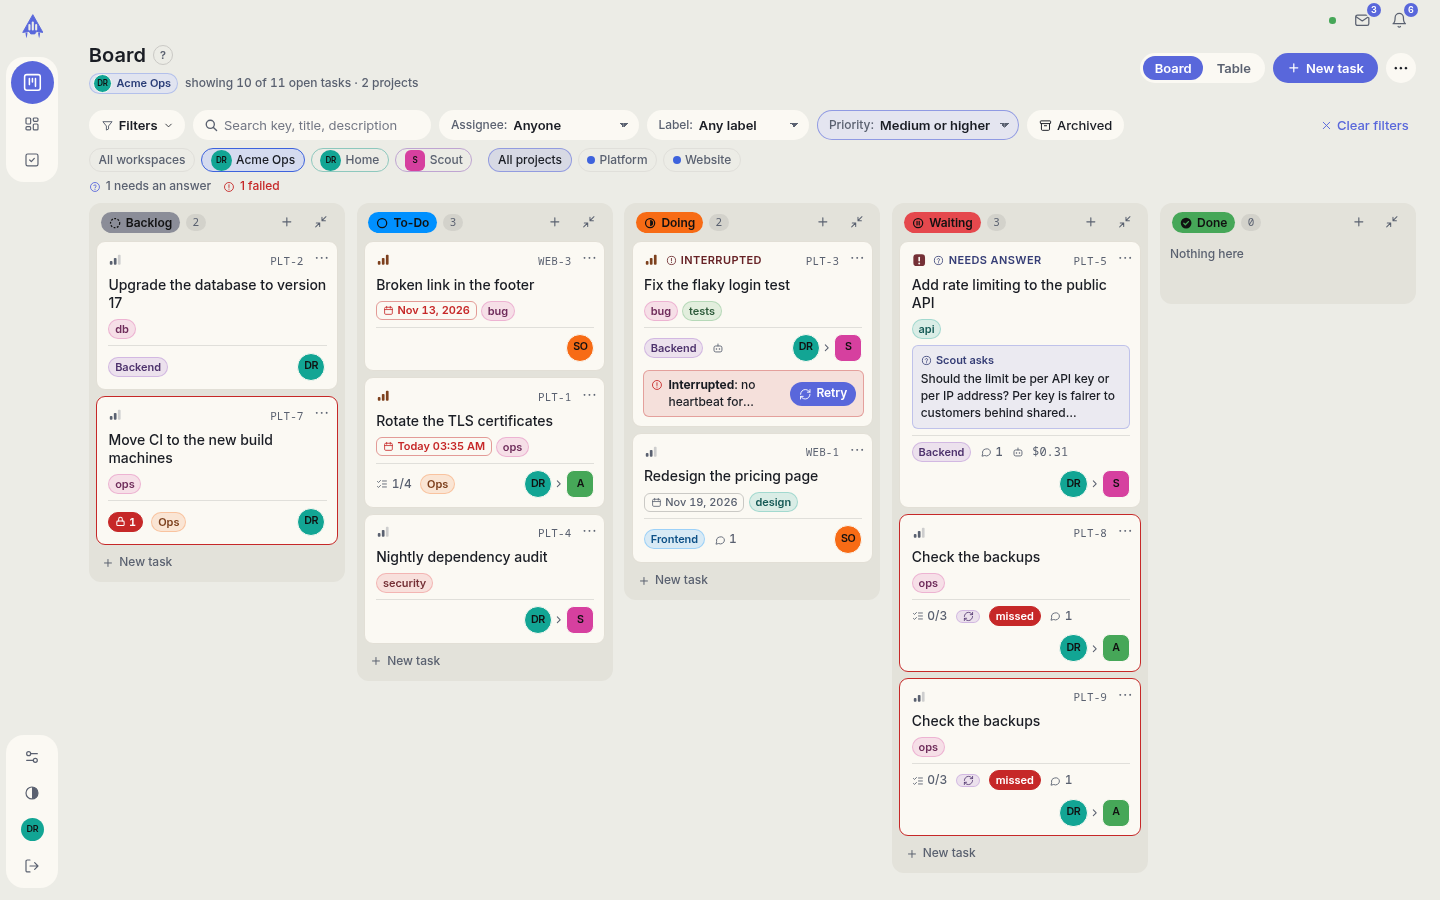
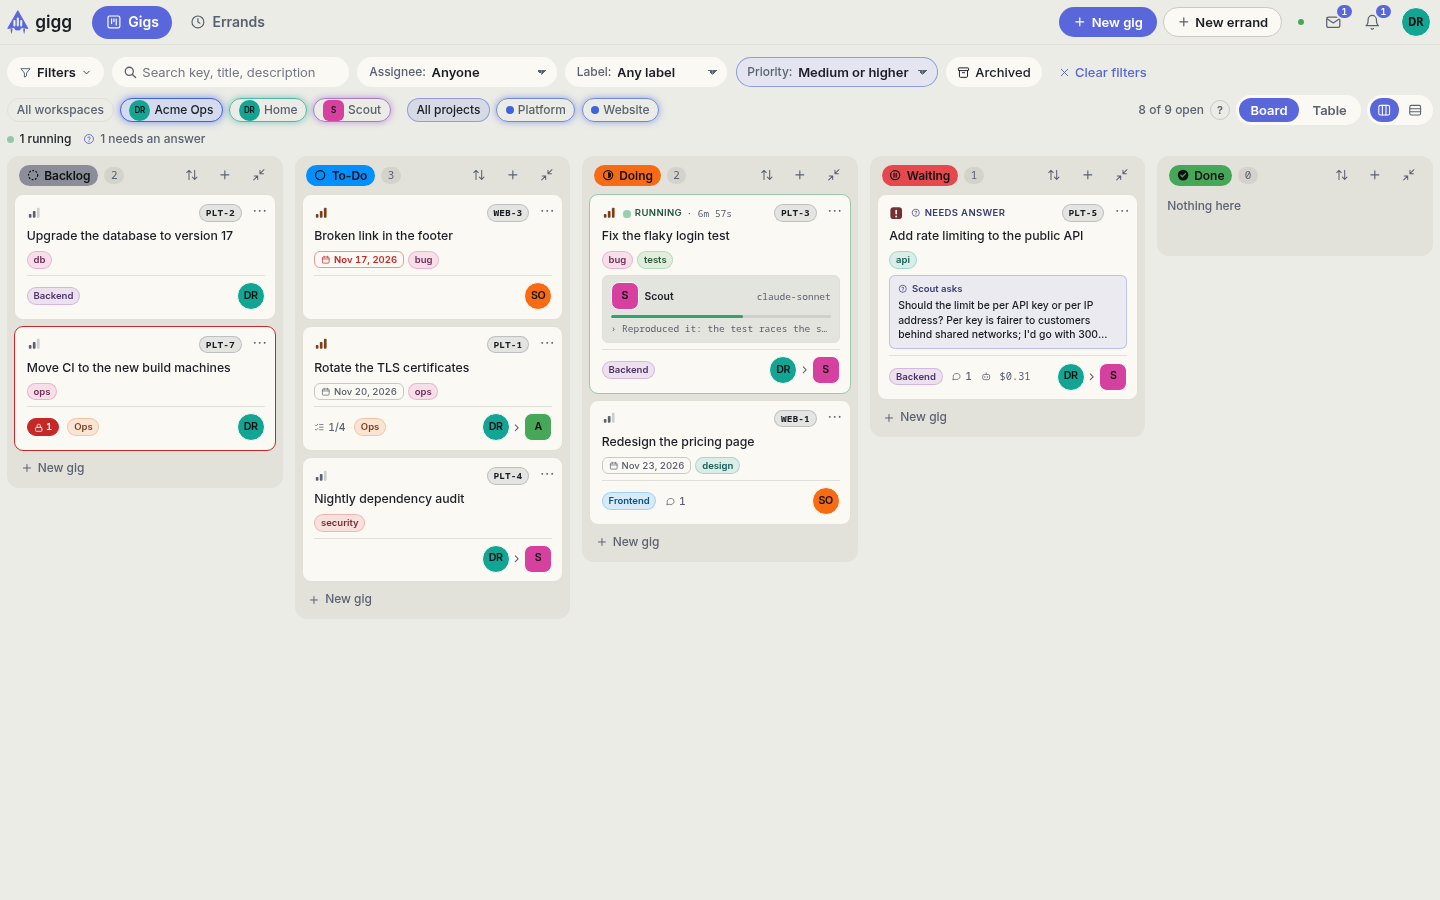
Docs: re-take every screenshot for the top bar
The guide's 19 images still showed the sidebar (and the My gigs page).
They are re-taken from a freshly seeded demo instance, half in
Nightwalker and half in Daywalker.

Scenario fixes on the way:
- New gig comes from the top bar; Recurring and Trash open with the
  board's ?tool= links (the old header menu is gone); help sits at the
  end of the filters row; gig links use /g/.
- The run first clears the board's remembered filter, so the
  all-gigs shot isn't filtered by an earlier run.
- agent-run-day shoots the Agent run section itself. The old shot never
  reached it. Element shots no longer capture beyond the viewport:
  that resized the page, and a scrolled panel jumped before the clip.
- The demo's seed keys get gigs:work, which ticking checklist items
  needs since the work/edit split.

Every image checked by eye; no metadata chunks in the PNGs.

diff --git a/dev/shot/run.js b/dev/shot/run.js
@@ -50,7 +50,9 @@ const puppeteer = require("puppeteer-core");
           // one element (with a margin), e.g. a dialog or a section
           const box = await (await page.waitForSelector(step.el, { timeout: 10000 })).boundingBox();
           const m = step.margin ?? 12;
-          await page.screenshot({ path: path.join(outDir, step.shot + ".png"), clip: { x: Math.max(0, box.x - m), y: Math.max(0, box.y - m), width: box.width + 2 * m, height: box.height + 2 * m } });
+          await page.screenshot({ path: path.join(outDir, step.shot + ".png"), clip: { x: Math.max(0, box.x - m), y: Math.max(0, box.y - m), width: box.width + 2 * m, height: box.height + 2 * m },
+            // as it is on screen: capturing beyond the viewport resizes the page, and a scrolled panel jumps
+            captureBeyondViewport: false });
         } else if (step.shot) await page.screenshot({ path: path.join(outDir, step.shot + ".png"), fullPage: step.full !== false });
         else if (step.dom) {
           fs.writeFileSync(path.join(outDir, step.dom + ".html"), await page.content());

diff --git a/dev/shot/docs-scenario.py b/dev/shot/docs-scenario.py
@@ -36,8 +36,8 @@ steps = [
     {"press": "Enter"},
     {"wait": ".board"},
     {"wait": 6000},  # the container's network settles once at the start (Chromium: ERR_NETWORK_CHANGED)
-    # a fresh account's look: the filter row folded (an earlier run left it open)
-    {"eval": "(() => { fetch('/api/v1/me', { method: 'PATCH', headers: { 'content-type': 'application/json' }, body: JSON.stringify({ preferences: { board_filters: null } }) }); return true; })()", "expect": True},
+    # a fresh account's look: the filter row folded and no remembered filter (an earlier run left both)
+    {"eval": "(() => { fetch('/api/v1/me', { method: 'PATCH', headers: { 'content-type': 'application/json' }, body: JSON.stringify({ preferences: { board_filters: null, board_filter: null } }) }); return true; })()", "expect": True},
     {"wait": 800},
     # ---- Nightwalker
     theme("nightwalker"),
@@ -47,16 +47,13 @@ steps = [
     {"shot": "tooltip-night", "full": False},
     {"goto": "/board?p=1"},
     {"wait": ".board .gig-card"},
-    click_text(".head-actions button", "New gig"),
+    click_text(".appbar a", "New gig"),
     {"wait": "[role=dialog] input"},
     {"type": ["[role=dialog] input", "Rotate the API signing keys"]},
     {"wait": 500},
     {"shot": "gig-new-night", "full": False},
-    {"goto": "/board?p=3"},
-    {"wait": ".board"},
-    click_text(".head-actions .head-more > button", "⋯"),
-    {"wait": 200},
-    click_text(".head-more .menu button", "Recurring"),
+    # the account menu's tools are links to the board with ?tool=
+    {"goto": "/board?p=3&tool=recurring"},
     {"wait": "[role=dialog] .rec-row, [role=dialog] li, [role=dialog] article"},
     {"wait": 700},
     {"shot": "recurring-night", "el": "[role=dialog]"},
@@ -72,7 +69,7 @@ steps = [
     *page("/admin/workspaces/1", "form[aria-label='Workspace settings']", "admin-workspace-night"),
     {"goto": "/board"},
     {"wait": ".board"},
-    {"click": "h1 .help-button"},
+    {"click": ".bf-end .help-button"},
     {"wait": ".help-body"},
     {"wait": 900},
     {"shot": "help-night", "full": False},
@@ -82,13 +79,15 @@ steps = [
     {"eval": "(() => { fetch('/api/v1/me', { method: 'PATCH', headers: { 'content-type': 'application/json' }, body: JSON.stringify({ preferences: { board_filters: 'open' } }) }); return true; })()", "expect": True},
     {"wait": 800},
     *page("/board?ws=acme&pr=2", ".board .gig-card", "board-filters-day"),
-    *page("/board/p/1/t/PLT-1", "aside.panel .tp-body", "gig-panel-day", settle=1200),
-    {"goto": "/board/p/1/t/PLT-4"},
+    *page("/board/p/1/g/PLT-1", "aside.panel .tp-body", "gig-panel-day", settle=1200),
+    {"goto": "/board/p/1/g/PLT-4"},
     {"wait": "section[aria-label='Agent run']"},
     {"wait": 1500},
-    {"eval": "(() => { document.querySelector(\"section[aria-label='Agent run']\").scrollIntoView({ block: 'start' }); return true; })()", "expect": True},
+    # the section itself (the panel can't scroll it to the top: it's near the end), scrolled at once
+    # (the panel scrolls smoothly, and the shot would catch it on the way)
+    {"eval": "(() => { document.querySelector(\"section[aria-label='Agent run']\").scrollIntoView({ block: 'center', behavior: 'instant' }); return true; })()", "expect": True},
     {"wait": 400},
-    {"shot": "agent-run-day", "el": "aside.panel", "margin": 0},
+    {"shot": "agent-run-day", "el": "section[aria-label='Agent run']", "margin": 8},
     *page("/inbox", ".inbox", "inbox-day"),
     *page("/table", "table", "table-day"),
     *page("/themes", "h1", "themes-day"),
@@ -106,11 +105,7 @@ steps = [
     {"wait": 1800},
     {"eval": "(() => { const w = document.createTreeWalker(document.body, NodeFilter.SHOW_TEXT); for (let n = w.nextNode(); n; n = w.nextNode()) n.nodeValue = n.nodeValue.replace(/\\b(10|172|192)\\.\\d+\\.\\d+\\.\\d+\\b/g, '192.0.2.10'); return true; })()", "expect": True},
     {"shot": "admin-keys-day", "full": False},
-    {"goto": "/board"},
-    {"wait": ".board .gig-card"},
-    click_text(".head-actions .head-more > button", "⋯"),
-    {"wait": 200},
-    click_text(".head-more .menu button", "Trash"),
+    {"goto": "/board?tool=trash"},
     {"wait": ".trash-item"},
     {"wait": 600},
     {"shot": "trash-day", "el": "[role=dialog]"},
